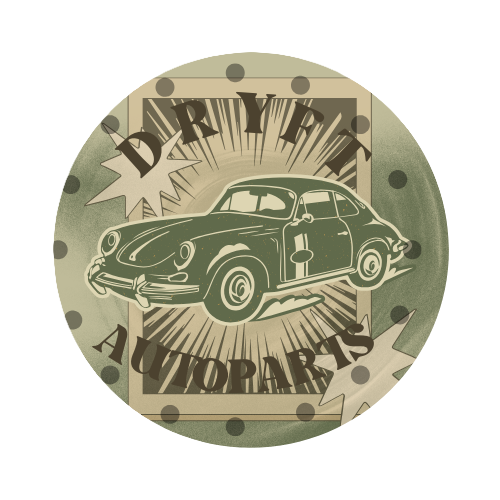
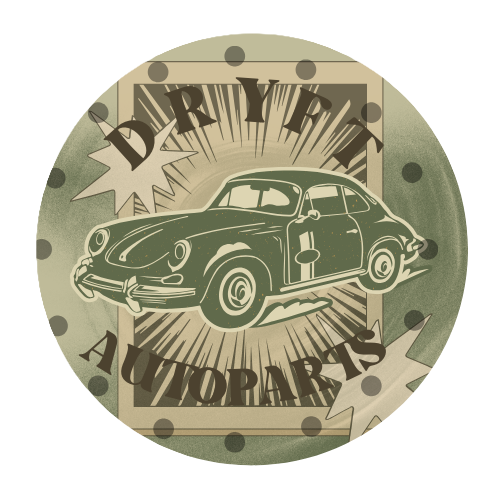
Adonia- Replaced (resized) tokens

diff --git a/index.html b/index.html
@@ -498,7 +498,7 @@
         <img src="images/Token4.png" alt="Token 4" class="token-image" />
         <img src="images/Token10.png" alt="Token 10" class="token-image" />
         <img src="images/token11.png" alt="Token 11" class="token-image" />
-        <img src="images/Token4.png" alt="Token 4" class="token-image" />
+        <img src="images/token12.png" alt="Token 12" class="token-image" />
       </div>
     </div>
 
